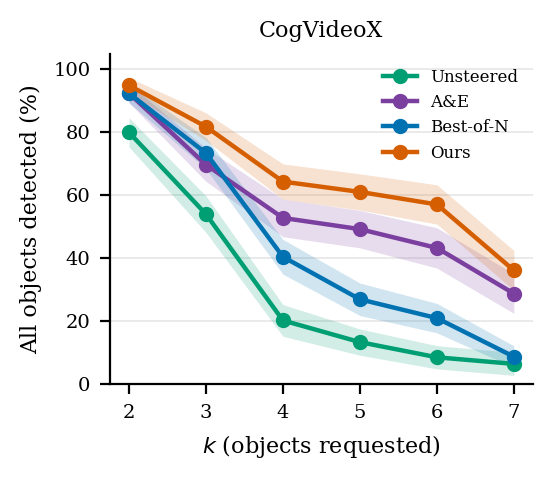
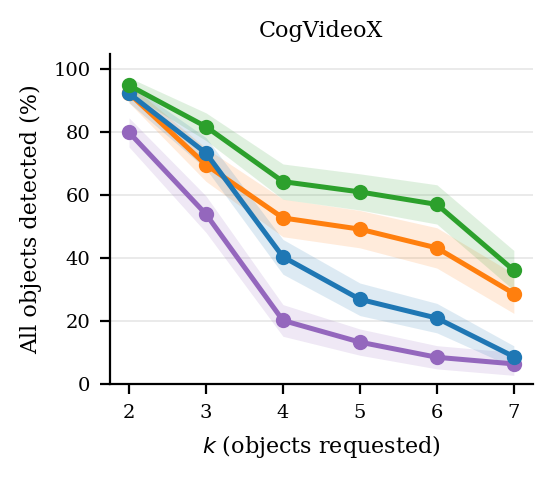
results: fix figure colors to match paper + shared HTML legend
- Use paper palette (tab10: purple/orange/blue/green) instead of Okabe-Ito
- Remove per-figure legends; replace with single SVG line+dot HTML legend
  below the 3 panels (Un-steered / Attend-and-Excite / Best-of-N / Ours)

Changed region(s): [[0.2152, 0.1562, 0.953, 0.7812], [0.6763, 0.125, 0.953, 0.3438], [0.5533, 0.5625, 0.83, 0.6875]]

diff --git a/index.html b/index.html
@@ -296,7 +296,22 @@
         </figure>
       </div>
     </div>
-    <p class="content has-text-centered" style="font-size:0.85rem; color:var(--muted); margin-bottom:1.5rem;">All-object accuracy vs. prompt complexity (<i>k</i> objects). Bands show &plusmn;1 SE.</p>
+    <!-- shared legend -->
+    <div style="display:flex; justify-content:center; gap:1.6rem; flex-wrap:wrap; margin:0.6rem 0 0.4rem;">
+      <span style="display:inline-flex; align-items:center; gap:0.45rem; font-size:0.82rem; color:#374151;">
+        <svg width="28" height="10" style="flex-shrink:0;"><line x1="0" y1="5" x2="28" y2="5" stroke="#9467bd" stroke-width="2"/><circle cx="14" cy="5" r="3.5" fill="#9467bd"/></svg>Un-steered
+      </span>
+      <span style="display:inline-flex; align-items:center; gap:0.45rem; font-size:0.82rem; color:#374151;">
+        <svg width="28" height="10" style="flex-shrink:0;"><line x1="0" y1="5" x2="28" y2="5" stroke="#ff7f0e" stroke-width="2"/><circle cx="14" cy="5" r="3.5" fill="#ff7f0e"/></svg>Attend-and-Excite
+      </span>
+      <span style="display:inline-flex; align-items:center; gap:0.45rem; font-size:0.82rem; color:#374151;">
+        <svg width="28" height="10" style="flex-shrink:0;"><line x1="0" y1="5" x2="28" y2="5" stroke="#1f77b4" stroke-width="2"/><circle cx="14" cy="5" r="3.5" fill="#1f77b4"/></svg>Best-of-N
+      </span>
+      <span style="display:inline-flex; align-items:center; gap:0.45rem; font-size:0.82rem; color:#374151; font-weight:700;">
+        <svg width="28" height="10" style="flex-shrink:0;"><line x1="0" y1="5" x2="28" y2="5" stroke="#2ca02c" stroke-width="2"/><circle cx="14" cy="5" r="3.5" fill="#2ca02c"/></svg>Ours
+      </span>
+    </div>
+    <p class="content has-text-centered" style="font-size:0.82rem; color:var(--muted); margin-bottom:1.5rem;">All-object accuracy vs. prompt complexity (<i>k</i> objects). Bands show &plusmn;1 SE.</p>
 
     <div class="table-container">
       <table class="table is-fullwidth is-narrow is-size-7 results-table">
